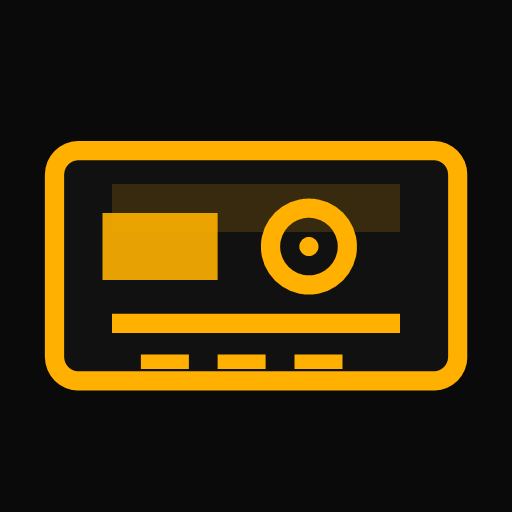
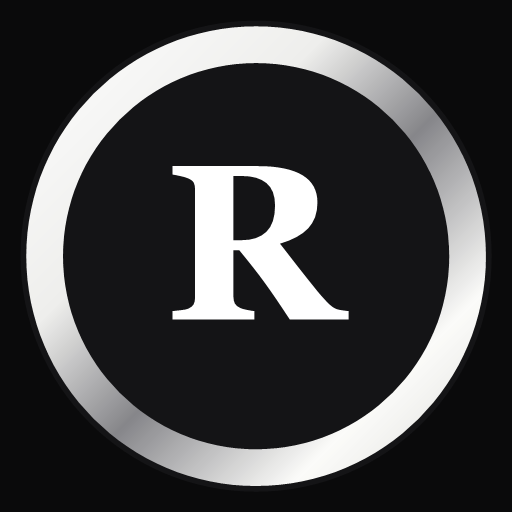
Replace orange nav mark with the metal R, drop the hamburger

diff --git a/src/components/nav.tsx b/src/components/nav.tsx
@@ -1,98 +1,25 @@
-import { useEffect, useState } from "react";
-import { Link, useLocation } from "react-router-dom";
-import { useLibraryState } from "../lib/use-library";
+import { Link } from "react-router-dom";
 
-const destinations = [
-	{ href: "/browse", label: "Discover" },
-	{ href: "/library", label: "Library" },
-	{ href: "/collections", label: "Lists" },
-	{ href: "/platforms", label: "Systems" },
-];
-
+/**
+ * The only global chrome: a single metal R home mark. No menus, no bars.
+ * Section navigation lives in each page footer; the landing has its own.
+ */
 export function ZenNav() {
-	const [open, setOpen] = useState(false);
-	const { pathname } = useLocation();
-	const { saves, collections } = useLibraryState();
-	const savedCount = Object.keys(saves).length;
-	const collectionsCount = collections.length;
-
-	useEffect(() => {
-		const onKeyDown = (event: KeyboardEvent) => {
-			if (event.key === "Escape") setOpen(false);
-		};
-		window.addEventListener("keydown", onKeyDown);
-		return () => window.removeEventListener("keydown", onKeyDown);
-	}, []);
-
 	return (
-		<>
-			<Link
-				to="/"
-				aria-label="roms.tn home"
-				className="group fixed left-5 top-5 z-50 flex h-9 w-9 items-center justify-center rounded-full border border-white/[0.22] bg-[#0a0a0b]/75 backdrop-blur-xl transition-colors hover:bg-[#ffb000] hover:border-[#ffb000] sm:left-7 sm:top-7"
-			>
-				<img
-					alt=""
-					aria-hidden="true"
-					className="h-5 w-5 transition-transform duration-150 group-hover:scale-105"
-					height={20}
-					src="/icon.svg"
-					width={20}
-				/>
-			</Link>
-
-			<div className="fixed right-5 top-5 z-50 sm:right-7 sm:top-7">
-				<button
-					type="button"
-					aria-label="Open menu"
-					aria-expanded={open}
-					onClick={() => setOpen((value) => !value)}
-					className="flex h-9 w-9 items-center justify-center rounded-full border border-white/[0.22] bg-[#0a0a0d]/75 text-white backdrop-blur-xl transition-colors hover:bg-white hover:text-black"
-				>
-					<span className="relative h-3 w-3" aria-hidden>
-						<span
-							className={`absolute left-0 top-[5px] h-px w-3 bg-current transition-transform duration-300 ${
-								open ? "rotate-45" : "-translate-y-[2px]"
-							}`}
-						/>
-						<span
-							className={`absolute left-0 top-[5px] h-px w-3 bg-current transition-transform duration-300 ${
-								open ? "-rotate-45" : "translate-y-[2px]"
-							}`}
-						/>
-					</span>
-				</button>
-
-				<div
-					className={`absolute right-0 top-12 w-[190px] origin-top-right rounded-2xl border border-white/[0.14] bg-[#0b0b0f]/95 p-1.5 shadow-[0_20px_70px_rgba(0,0,0,.6)] backdrop-blur-2xl transition-all duration-300 ${
-						open ? "scale-100 opacity-100" : "pointer-events-none scale-95 opacity-0"
-					}`}
-				>
-					{destinations.map((item) => {
-						const active = pathname === item.href || pathname.startsWith(`${item.href}/`);
-						const count =
-							item.href === "/library" ? savedCount : item.href === "/collections" ? collectionsCount : undefined;
-						return (
-							<Link
-								key={item.href}
-								to={item.href}
-								onClick={() => setOpen(false)}
-								className={`flex items-center justify-between rounded-xl px-3 py-2.5 text-[13px] transition-colors ${
-									active ? "bg-white text-black" : "text-white/80 hover:bg-white/[0.08] hover:text-white"
-								}`}
-							>
-								{item.label}
-								{count !== undefined && count > 0 && (
-									<span className={`font-mono text-[10px] ${active ? "text-black/55" : "text-white/50"}`}>
-										{count}
-									</span>
-								)}
-							</Link>
-						);
-					})}
-				</div>
-			</div>
-		</>
+		<Link
+			to="/"
+			aria-label="roms.tn home"
+			className="fixed left-5 top-5 z-50 flex h-10 w-10 items-center justify-center rounded-full transition-transform duration-150 hover:scale-105 sm:left-7 sm:top-7"
+		>
+			<img
+				alt=""
+				aria-hidden="true"
+				className="h-10 w-10 rounded-full"
+				height={40}
+				src="/mark.svg"
+				width={40}
+			/>
+		</Link>
 	);
 }
 
@@ -102,15 +29,21 @@ export function Footer() {
 			<div className="mx-auto flex max-w-[980px] flex-col items-center gap-3 px-5 text-center">
 				<span className="h-px w-12 bg-white/[0.2]" />
 				<p className="text-[12px] text-white/60">Every cartridge, one page.</p>
-				<div className="flex items-center gap-4 font-mono text-[10px] uppercase tracking-[0.12em] text-white/55">
+				<div className="flex flex-wrap items-center justify-center gap-x-4 gap-y-2 font-mono text-[10px] uppercase tracking-[0.12em] text-white/55">
+					<Link to="/" className="hover:text-white">
+						Home
+					</Link>
 					<Link to="/browse" className="hover:text-white">
 						Discover
 					</Link>
 					<Link to="/library" className="hover:text-white">
-						Keep
+						Library
 					</Link>
 					<Link to="/collections" className="hover:text-white">
-						Curate
+						Lists
+					</Link>
+					<Link to="/platforms" className="hover:text-white">
+						Systems
 					</Link>
 				</div>
 			</div>

diff --git a/index.html b/index.html
@@ -21,11 +21,11 @@
 		<link rel="canonical" href="https://roms.tn/" />
 
 		<link rel="icon" href="/favicon.ico" sizes="any" />
-		<link rel="icon" type="image/svg+xml" href="/icon.svg" />
+		<link rel="icon" type="image/svg+xml" href="/mark.svg" />
 		<link rel="icon" type="image/png" sizes="96x96" href="/icon.png" />
 		<link rel="icon" type="image/png" sizes="192x192" href="/icon-192.png" />
 		<link rel="apple-touch-icon" sizes="180x180" href="/apple-touch-icon.png" />
-		<link rel="mask-icon" href="/icon.svg" color="#ffb000" />
+		<link rel="mask-icon" href="/mark.svg" color="#ffffff" />
 		<link rel="manifest" href="/site.webmanifest" />
 		<meta name="apple-mobile-web-app-capable" content="yes" />
 		<meta name="apple-mobile-web-app-status-bar-style" content="black-translucent" />
